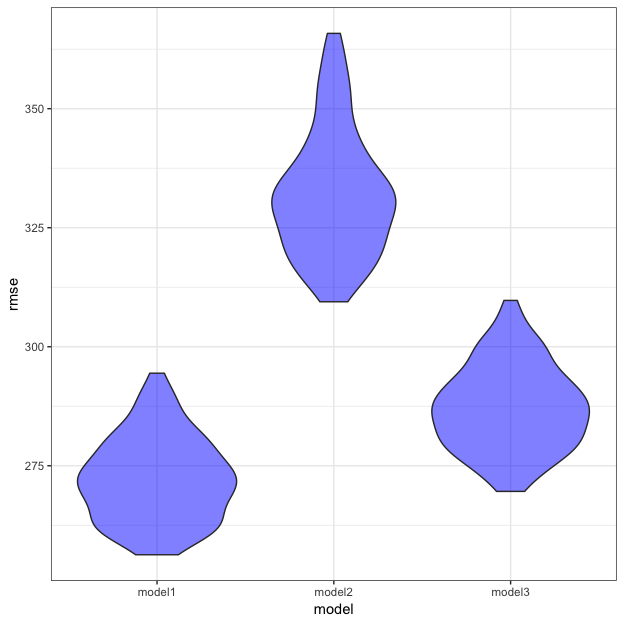
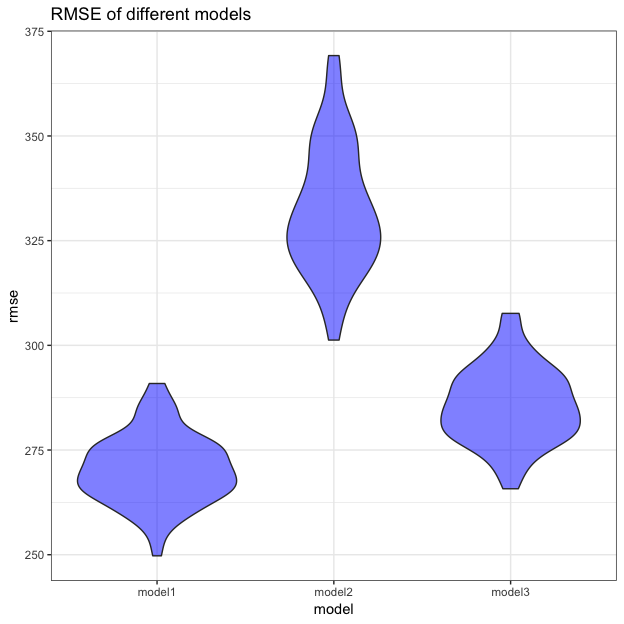
change plots

diff --git a/p8105_hw6_sl4471.md b/p8105_hw6_sl4471.md
@@ -106,7 +106,7 @@ glm_all %>%
   geom_point(color = "red") +
   geom_errorbar(aes(ymin = conf.low, ymax = conf.high), alpha = 0.5) +
   coord_flip() +
-   labs(
+  labs(
     title = "The odds ratio and CIs of each city",
     x = "City",
     y = "Odds Ratio and CI") +
@@ -473,16 +473,16 @@ cv_df
     ## # A tibble: 100 x 9
     ##    train test  .id   model1 model2 model3 rmse_model1 rmse_model2
     ##    <lis> <lis> <chr> <list> <list> <list>       <dbl>       <dbl>
-    ##  1 <tib… <tib… 001   <S3: … <S3: … <S3: …        282.        330.
-    ##  2 <tib… <tib… 002   <S3: … <S3: … <S3: …        271.        323.
-    ##  3 <tib… <tib… 003   <S3: … <S3: … <S3: …        282.        338.
-    ##  4 <tib… <tib… 004   <S3: … <S3: … <S3: …        268.        320.
-    ##  5 <tib… <tib… 005   <S3: … <S3: … <S3: …        265.        320.
-    ##  6 <tib… <tib… 006   <S3: … <S3: … <S3: …        279.        329.
-    ##  7 <tib… <tib… 007   <S3: … <S3: … <S3: …        261.        325.
-    ##  8 <tib… <tib… 008   <S3: … <S3: … <S3: …        290.        344.
-    ##  9 <tib… <tib… 009   <S3: … <S3: … <S3: …        263.        317.
-    ## 10 <tib… <tib… 010   <S3: … <S3: … <S3: …        262.        326.
+    ##  1 <tib… <tib… 001   <S3: … <S3: … <S3: …        265.        309.
+    ##  2 <tib… <tib… 002   <S3: … <S3: … <S3: …        274.        353.
+    ##  3 <tib… <tib… 003   <S3: … <S3: … <S3: …        282.        348.
+    ##  4 <tib… <tib… 004   <S3: … <S3: … <S3: …        291.        369.
+    ##  5 <tib… <tib… 005   <S3: … <S3: … <S3: …        261.        315.
+    ##  6 <tib… <tib… 006   <S3: … <S3: … <S3: …        257.        323.
+    ##  7 <tib… <tib… 007   <S3: … <S3: … <S3: …        276.        336.
+    ##  8 <tib… <tib… 008   <S3: … <S3: … <S3: …        285.        367.
+    ##  9 <tib… <tib… 009   <S3: … <S3: … <S3: …        272.        352.
+    ## 10 <tib… <tib… 010   <S3: … <S3: … <S3: …        275.        345.
     ## # ... with 90 more rows, and 1 more variable: rmse_model3 <dbl>
 
 ``` r
@@ -492,7 +492,8 @@ cv_df %>%
   mutate(model = str_replace(model, "rmse_", ""),
          model = fct_inorder(model)) %>% 
   ggplot(aes(x = model, y = rmse)) + 
-  geom_violin(fill = "blue", alpha = 0.5)
+  geom_violin(fill = "blue", alpha = 0.5) +
+  labs(title = "RMSE of different models")
 ```
 
 <img src="p8105_hw6_sl4471_files/figure-markdown_github/cv_plot-1.png" width="90%" />
